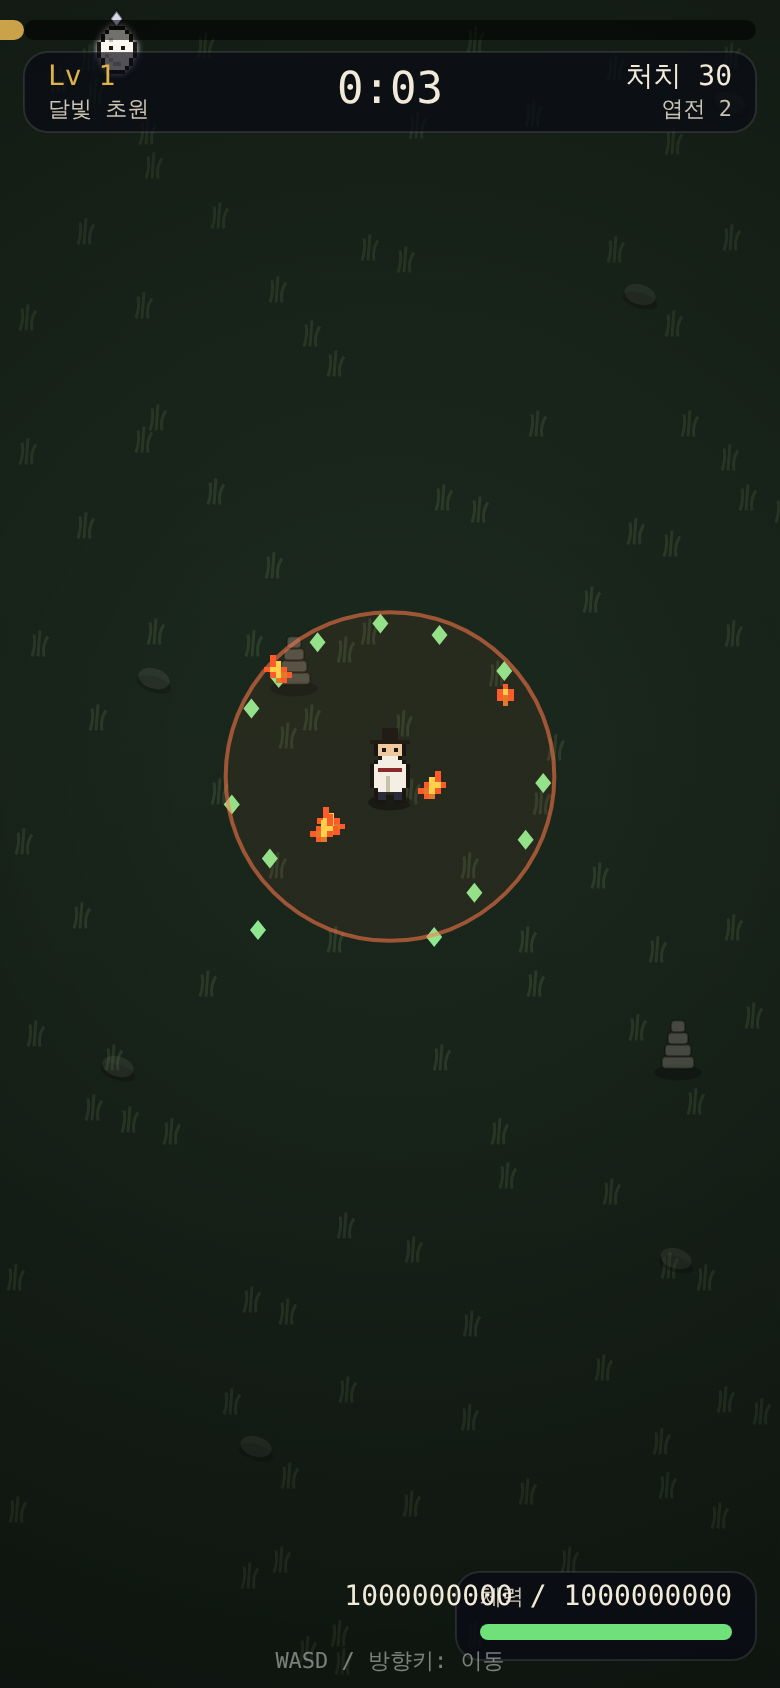
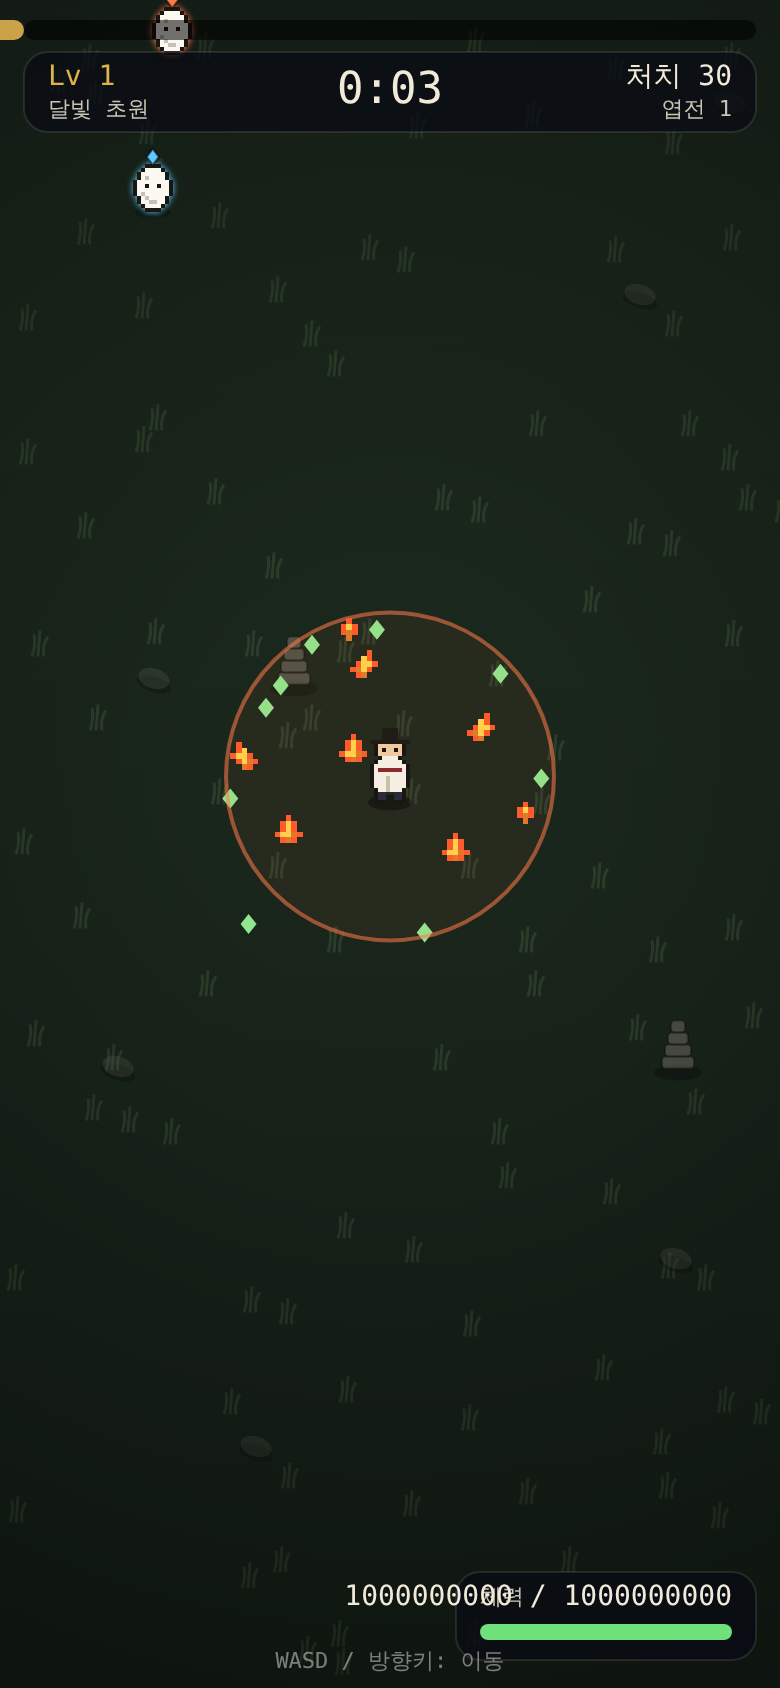
night-exorcist v22: 레벨업·상자 뒤 1초 무적 유예
Claude-Session: https://claude.ai/code/session_01RmJvEQYZMU41pMZMsu4AKq

diff --git a/docs/04-night-exorcist/design.md b/docs/04-night-exorcist/design.md
@@ -239,3 +239,8 @@ challenge(n) = 1 + 0.975·(1 − 0.86^n)     (밤 단계)
 
 - 화상 DoT: 일반 요괴 maxhp 2%/s 유지, **보스·정예는 0.5%/s**(+고정 0.4/s). 보스2 20초 화상: 41% → ≈10%.
 - 진화 무기 **3단 시작**(`EVO_START_LV`): 1단 시작은 부모 둘(Lv5+Lv5) 합의 25% DPS로 진화가 손해였음. 3단은 관통·개수·범위 포함 ≈ 부모 합의 60~70%, 2번 더 올리면 추월. (상자·레벨업 상한 5 그대로.)
+
+## §28 v22 — 보상 뒤 무적 유예
+
+- 레벨업 카드 선택·상자 닫기 직후 **1.0초 무적**(`C.GRACE`, `S.grace`): 접촉·보스 투사체·낙석/낙뢰·불구덩이 피해 무시. 점선 고리 깜빡임으로 표시. 호원: "재개 즉시 둘러싸여 맞는 게 불합리". 정지 대신 무적을 택한 이유: 정지는 재개 순간 똑같이 둘러싸여 있고, 무적 1초면 빠져나갈 시간이 됨.
+- `sim/grace-test.mjs`.
